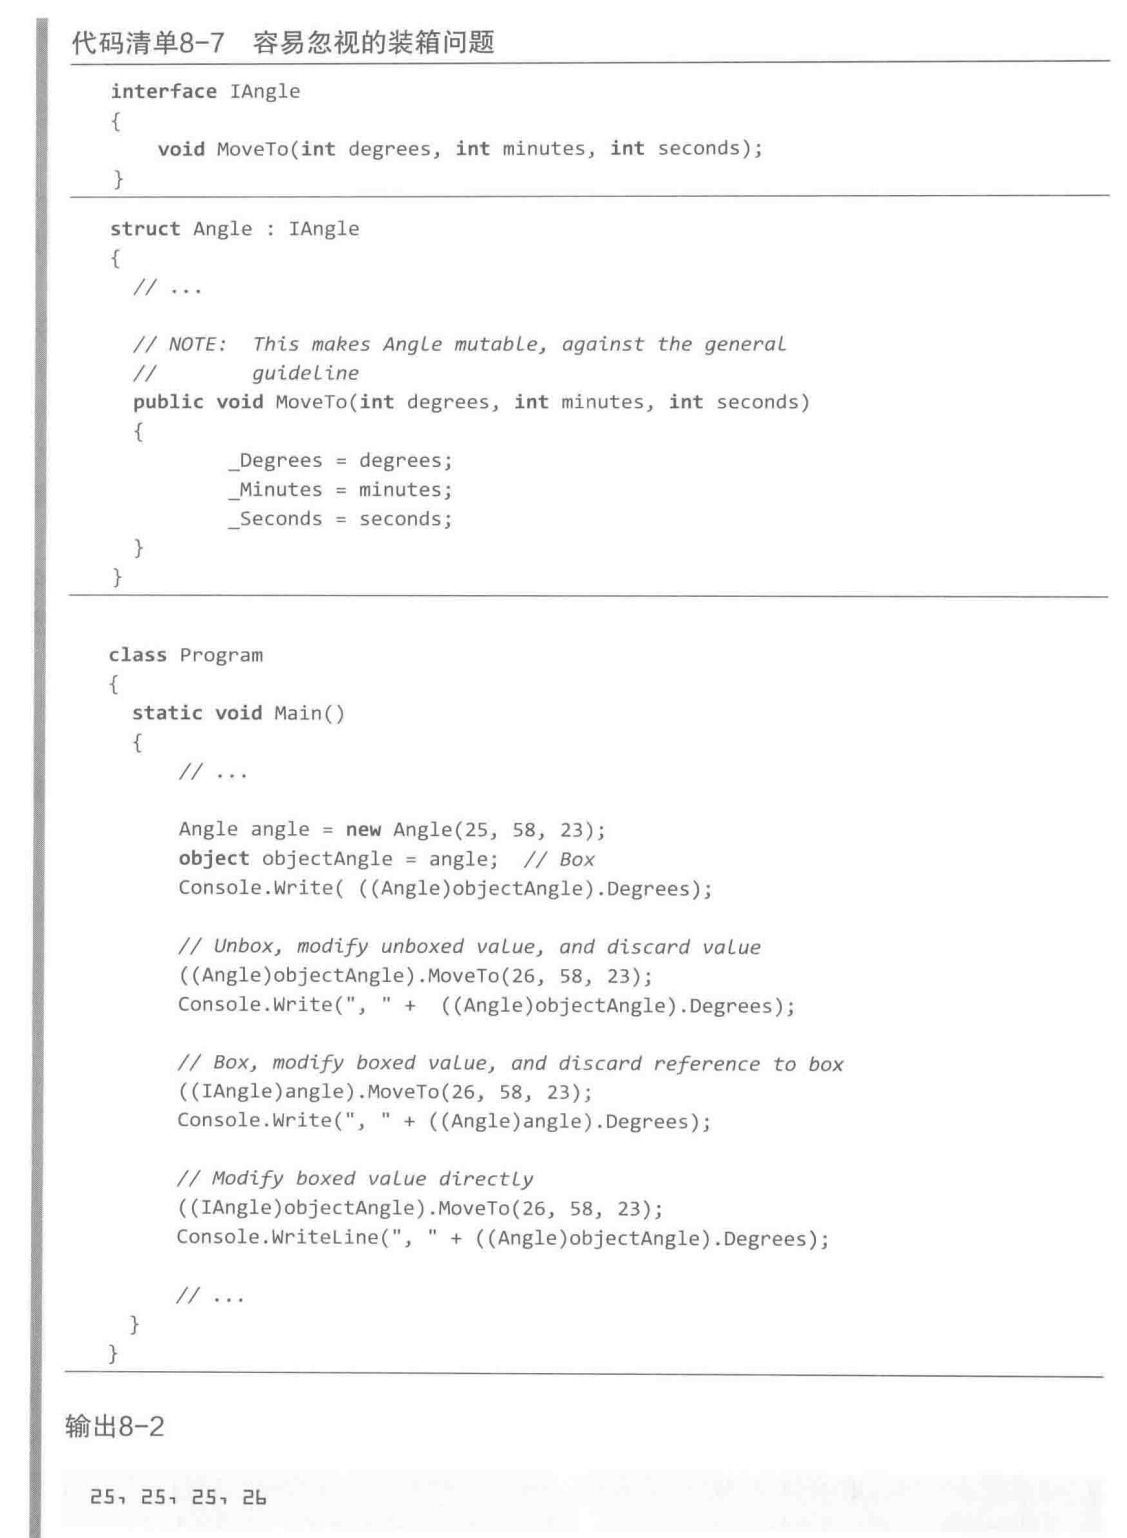
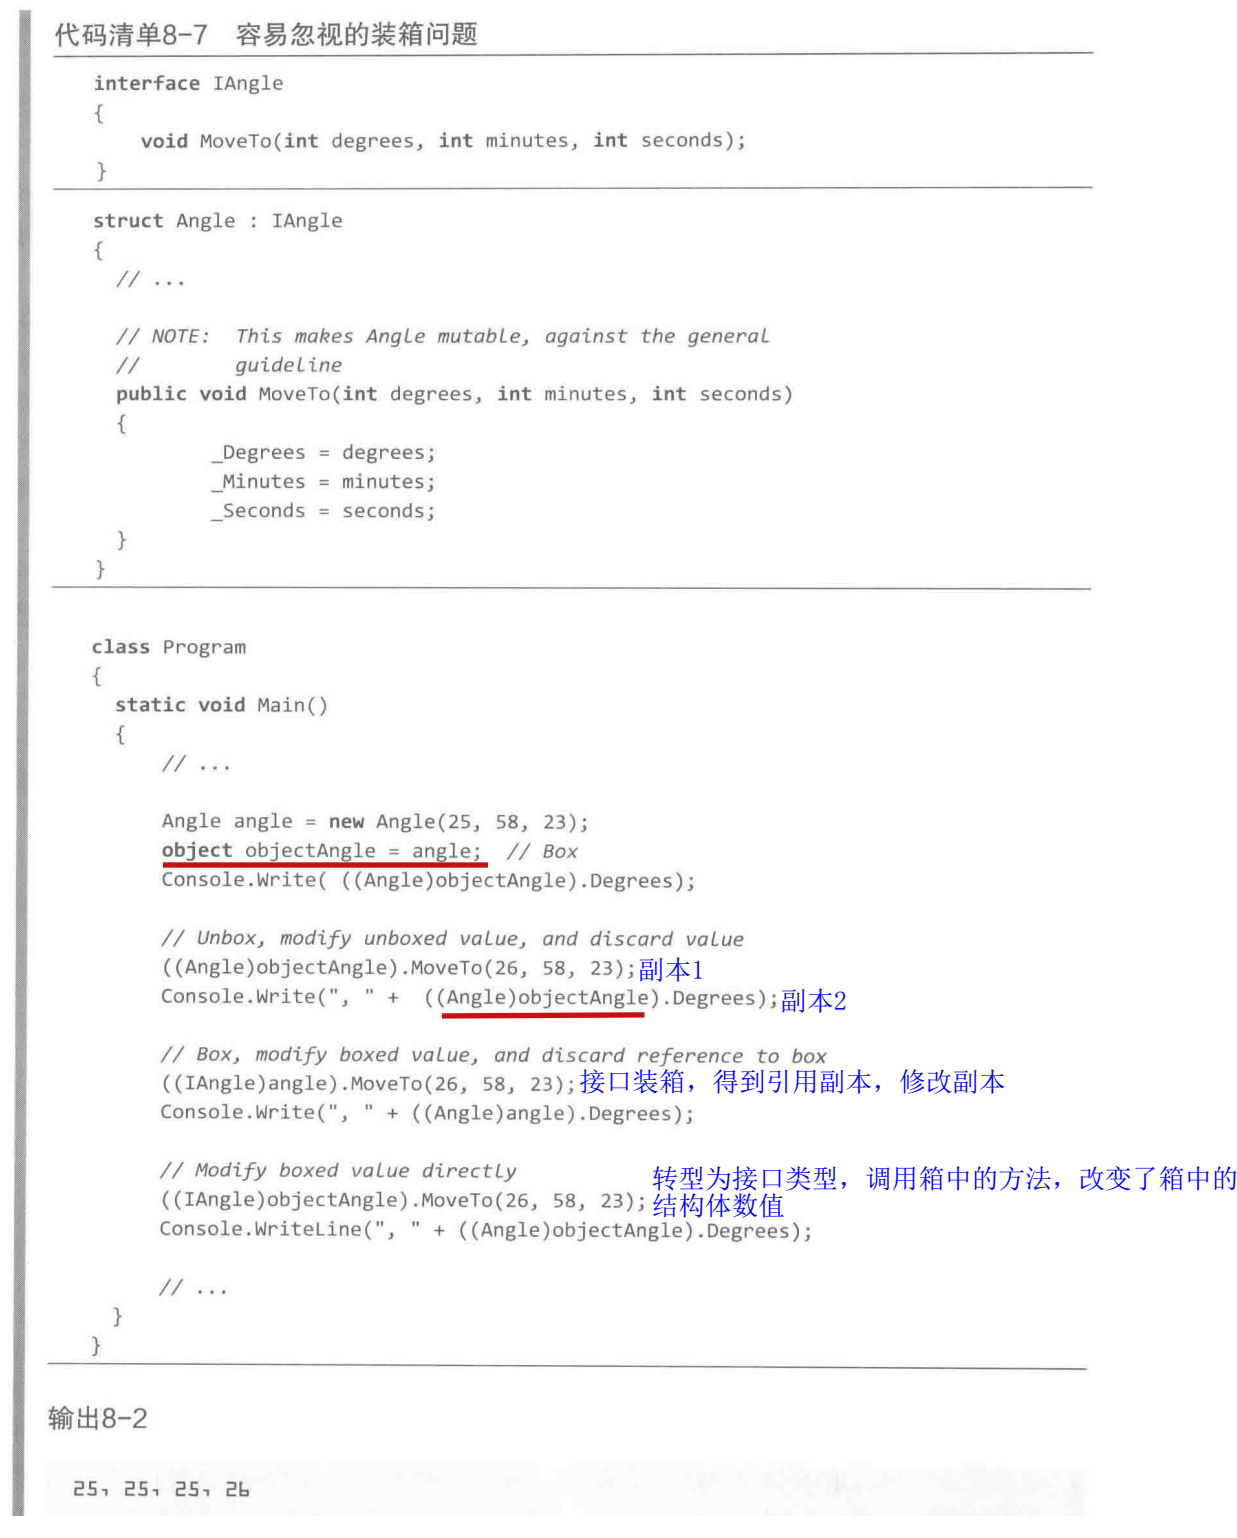
更新C#的自学内容到 接口部分

diff --git a/ProgramLearning/C#/C# 面向对象.md b/ProgramLearning/C#/C# 面向对象.md
@@ -1,0 +1,178 @@
+# 类 和 对象
+![](images/CSharp-class.png)
+
+1、this关键字  
+显式指出当前访问的字段或方法都是包容类的实例成员，在调用实例成员时this都是隐式的，返回对象本身的实例。  
+
+2、 get set方法实现类属性定义（练习Python的描述符概念和@property）    
+```C#
+class Person
+{
+    private string _firstName;
+    private string _lastName;
+
+    public string firstName{
+        get{
+            return _firstName;
+        }
+        set{
+            _firstName = value;
+        }
+    }
+    public string lastName{
+        get{
+            return _lastName;
+        }
+        set{
+            _lastName = value;
+        }
+    }
+
+    public string Title{get; set;} // 简化写法，不用指明_Title，而且get和set不用写出具体的程序块（当然如果需要额外处理则仍需写明）
+}
+```
+**注意事项**  
+![](images/CSharp-class-property-notice.png)
+
+3、对象初始化器
+```C#
+Employee employee1 = new Employee{Title="***", Salary=999};
+```
+
+构造器链：类中的构造器去调用类中的另一个构造器。  
+![](images/CSharp-class-initializelink.png)
+
+4、静态方法/字段（static）  
+多个实例共享的数据
+
+5、静态构造器  
+不显式调用，而是在运行时在首次访问类时自动调用静态构造器。**使用场景是将类中的静态数据初始化为特定的值，尤其是无法通过声明一次简单的复制来获取初始值的时候。**
+
+```C#
+class Employee
+{
+    static Employee()
+    {
+        Random randomGenerator = new Random();
+        NextId = randomGenerator.Next(101, 999);
+    }
+
+    public static int NextId = 42;
+}
+```
+6、静态类   
+不包含任何实例字段，只有静态方法，静态字段和静态属性。  
+C# 编译器自动在CIL代码中将静态类标记为abstract或sealed，从而静态类不能派生出子类。
+
+7、拓展方法  
+拓展方法可模拟为不同的类创建实例方法，只需修改静态方法的签名，使第一个参数为要拓展的类型，并在类型名称前加上this关键字。  
+当类中含有和拓展方法同名的方法时，拓展方法不会得到调用。
+
+拓展方法（作用于基类）可在子类中被使用。
+
+```C#
+public static class DirectoryInfoExtension
+{
+    public static void CopyTo(
+        this DirectoryInfo sourceDirector, string target,SearchOption option, string searchPattern
+    ){
+        //......
+    }
+}
+
+DirectoryInfo directory = new DirectoryInfo("..");
+directory.CopyTo("...",...);
+```
+
+8、分布类 和 分布方法 —— 类的定义分布在不同的文件中。分布方法应用于分布类中，分布类中的方法可以在分布类的一部分中声明，在另一个部分明确定义。  
+分布方法必须是返回void，而且不能用out作为参数类型。如果需要返回值，可以使用ref类型的参数。  
+![](images/CSharp-class-partial.png)
+
+9、object类（所有类的祖先）
+
+![](images/CSharp-class-object.png)
+
+
+
+# 继承（只能单继承）
+![](images/CSharp-class-inherit.png)
+实例如下：  
+![](images/CSharp-class-inherit-example.png)
+
+object类是一切类的基类。
+
+标记为sealed的类（密封类）不能被派生
+```C# 
+public sealed class A // 标记为sealed
+{
+    //...
+}
+```
+
+1、virtual修饰符  
+可重写属性和方法，不可重写字段或静态成员。基类中必须将可重写的每个成员用virtual修饰。而在子类中，必须用override修饰可被重写的方法。  
+
+被override重写的方法也会自动成为虚方法，可被子类重写。
+
+```C#
+public class PadItem
+{
+    public virtual string Name{get; set;}
+    // ....
+}
+
+public Contact : PadItem
+{
+    public override string Name{
+        get{
+            //...
+        }
+        set{
+            //...
+        }
+    }
+    // ...
+}
+
+```
+
+使用new而不是override修饰虚方法，此时会产生如下效果：
+![](images/CSharp-class-virtual-new.png)
+
+利用base关键字访问基类成员：  
+![](images/CSharp-class-base.png)
+
+初始化时要顺便对基类进行初始化（调用基类的构造器，假如基类没有默认构造器的话）
+```C#
+
+public class Contact : PadItem
+{
+    public Contact(String name):base(name){
+        Name = name;
+    }
+    public string Name{get;set;}
+}
+```
+
+2、抽象类 —— abstract关键字，用该关键字声明类，同时注意抽象类的主要特征是抽象类中含有抽象方法（也是用abstract关键字修饰，不能同时使用virtual关键字去修饰），同时注意抽象方法是不具备具体实现的，必须交由子类去实现（子类重写用override关键字去实现）。  
+多态的思想： 只有对象本身才知道如何更好地执行特定操作。
+
+3、is操作符——判断对象是否属于某个类 / as 操作符 —— 类型转换
+```C#
+if(data is object)
+{
+    // ... ... 
+}
+```
+
+```C#
+data as Document; // 将data对象转为Document类型，如果转换不成功就返回null
+```
+
+# 接口
+继承确定的是is a 的关系，而接口确定的是can do的关系，即该类的对象能做什么。
+
+![](images/CSharp-interface.png)
+
+接口的特点如下：  
+![](images/CSharp-interface-property.png)

diff --git a/ProgramLearning/C#/C# 基础语法总结.md b/ProgramLearning/C#/C# 基础语法总结.md
@@ -82,13 +82,15 @@ toString(); => 任何类型都有，返回类型的一个字符串表示
 ### 装箱操作
 装箱转换 从值类型转到引用类型。相反过程称为拆箱。   
 1 - 在堆上分配内存  
-2 - 内存复制，当前存储位置上的值类型数据复制到堆上分配好的位置
+2 - 内存复制，当前存储位置上的值类型数据复制到堆上分配好的位置  
 3 - 转换结果即对堆上的新存储位置的引用  
 ![](images/CSharp-boxing.png)  
 容易忽略的问题:可变值类型——对应结构体，如下的IAngle方法使得结构体Angle中的值可变，即变成可变值类型。为了避免过度装箱拆箱，需要减少可变值类型的使用。  
+值类型变量相当于写了值的纸，装箱操作想当于将这张纸复印一张后放入箱中。同理，拆箱操作相当于从箱中取出纸后复印一张给变量。主要IAngle(ObjectAngle)是引用转换而不是装箱转换。  
 ![](images/CSharp-boxing-problem.png)
 
-
+利用接口类型去转换装箱后的值类型（即引用转换）可以有效减少拆箱操作，而且避免上述的可变值类型实际没有改变装箱值的问题。  
+![](images/CSharp-boxing-prevent.png)
 
 # 数组类型
 ![](images/CSharp-datatype-array.png)
